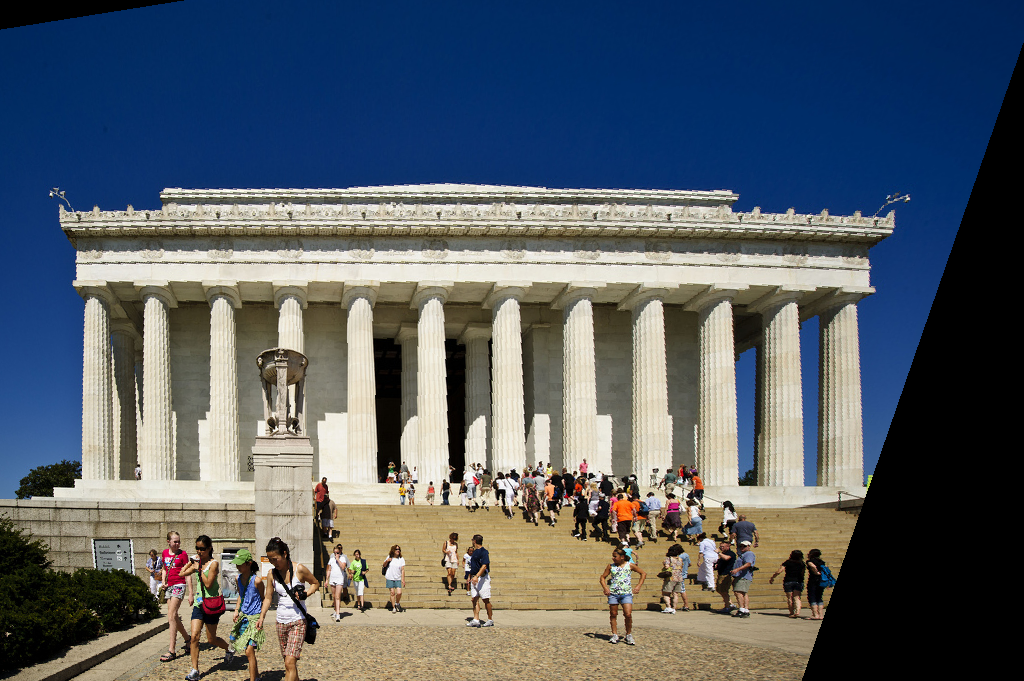
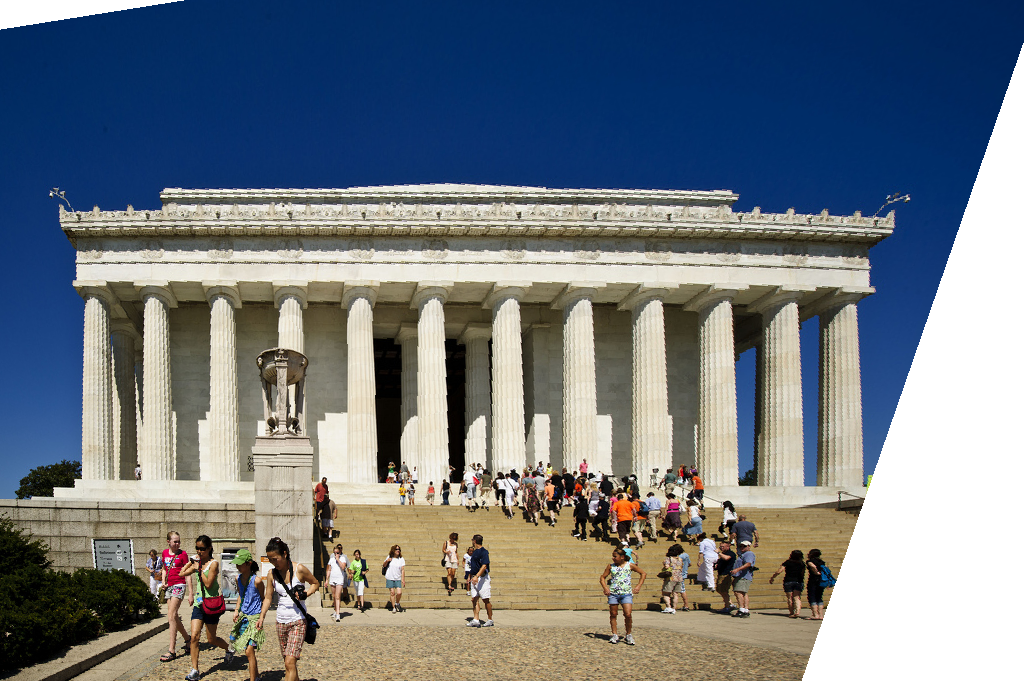
part2-q1: a) made externals white instead of black and b) modified the call so that the output is available in main  and c) refactoring

Changed region(s): [[0.7812, 0.0617, 1.0, 1.0], [0.0, 0.0, 0.1562, 0.0617]]

diff --git a/a2.cpp b/a2.cpp
@@ -1,10 +1,3 @@
-// B657 assignment 2 skeleton code
-//
-// Compile with: "make"
-//
-// See assignment handout for command line and project specifications.
-
-//2#define cimg_use_jpeg
 #include "CImg.h"
 #include <ctime>
 #include <iostream>
@@ -111,74 +104,53 @@ vector<vector<int> > quantize_vectors(const vector<SiftDescriptor> descriptors, 
 	return result;
 }
 
-void inverseWarp(CImg<double> input_image)//,double arr[3][3])
-{
-  double sum=0.0;
-  CImg<double> warped = input_image;
-  warped.fill(0,0,0);
-  double coordinates[3]={0,0,1.0};
-  double out[3] = {0,0,0};
-  //double transformation_inverse[3][3] = {1.12467, -0.314677,222.941,0.108839,0.685059,-19.9247,0.000264587,-0.000597069,1.08278};
-  // double transformation_inverse[3][3] = {1.12467, -0.314677,222.941,0.108839,0.685059,-19.9247,0.0,0.0,1.0};
-  double transformation_inverse[3][3];
-  transformation_inverse[0][0]=1.124668581; transformation_inverse[0][1]=-0.314676504; transformation_inverse[0][2]=222.940924688;
-  transformation_inverse[1][0]=0.108839051; transformation_inverse[1][1]=0.685058665; transformation_inverse[1][2]=-19.924695338;
-  transformation_inverse[2][0]=0.000264587; transformation_inverse[2][1]=-0.00059706; transformation_inverse[2][2]=1.082784875;
+void inverseWarp(CImg<double> input_image, CImg<double> warped) {
+	double sum=0.0;
+	warped.fill(255,255,255);
+	double coordinates[3] = {0,0,1.0};
+	double out[3] = {0,0,0};
   
- //  double m[3][3] = {0.907, 0.258, -182.0, -0.153, 1.44, 58.0, -0.000306, 0.000731, 1.0};
- //  double minv[3][3];
- //  double det = 	m[0][0] * (m[1][1] * m[2][2] - m[2][1] * m[1][2]) -
-	// 			m[0][1] * (m[1][0] * m[2][2] - m[1][2] * m[2][0]) +
-	// 			m[0][2] * (m[1][0] * m[2][1] - m[1][1] * m[2][0]);
+	double transformation[3][3] = {0.907, 0.258, -182.0, -0.153, 1.44, 58.0, -0.000306, 0.000731, 1.0};
+	double t_inv[3][3];
+	double det = 	transformation[0][0] * (transformation[1][1] * transformation[2][2] - transformation[2][1] * transformation[1][2]) -
+					transformation[0][1] * (transformation[1][0] * transformation[2][2] - transformation[1][2] * transformation[2][0]) +
+					transformation[0][2] * (transformation[1][0] * transformation[2][1] - transformation[1][1] * transformation[2][0]);
 
-	// double invdet = 1 / det;
+	double invdet = 1 / det;
 
-	// minv[0][0] = invdet * (m[1][1] * m[2][2] - m[2][1] * m[1][2]);
-	// minv[0][1] = invdet * (m[0][2] * m[2][1] - m[0][1] * m[2][2]);
-	// minv[0][2] = invdet * (m[0][1] * m[1][2] - m[0][2] * m[1][1]);
-	// minv[1][0] = invdet * (m[1][2] * m[2][0] - m[1][0] * m[2][2]);
-	// minv[1][1] = invdet * (m[0][0] * m[2][2] - m[0][2] * m[2][0]);
-	// minv[1][2] = invdet * (m[1][0] * m[0][2] - m[0][0] * m[1][2]);
-	// minv[2][0] = invdet * (m[1][0] * m[2][1] - m[2][0] * m[1][1]);
-	// minv[2][1] = invdet * (m[2][0] * m[0][1] - m[0][0] * m[2][1]);
-	// minv[2][2] = invdet * (m[0][0] * m[1][1] - m[1][0] * m[0][1]);
+	t_inv[0][0] = invdet * (transformation[1][1] * transformation[2][2] - transformation[2][1] * transformation[1][2]);
+	t_inv[0][1] = invdet * (transformation[0][2] * transformation[2][1] - transformation[0][1] * transformation[2][2]);
+	t_inv[0][2] = invdet * (transformation[0][1] * transformation[1][2] - transformation[0][2] * transformation[1][1]);
+	t_inv[1][0] = invdet * (transformation[1][2] * transformation[2][0] - transformation[1][0] * transformation[2][2]);
+	t_inv[1][1] = invdet * (transformation[0][0] * transformation[2][2] - transformation[0][2] * transformation[2][0]);
+	t_inv[1][2] = invdet * (transformation[1][0] * transformation[0][2] - transformation[0][0] * transformation[1][2]);
+	t_inv[2][0] = invdet * (transformation[1][0] * transformation[2][1] - transformation[2][0] * transformation[1][1]);
+	t_inv[2][1] = invdet * (transformation[2][0] * transformation[0][1] - transformation[0][0] * transformation[2][1]);
+	t_inv[2][2] = invdet * (transformation[0][0] * transformation[1][1] - transformation[1][0] * transformation[0][1]);
 
- //  //double transformation_inverse[3][3] = minv;
-  
- //  for(int x=0;x<3;x++){
- //    for(int y=0;y<3;y++)
-	// 	cout << minv[x][y] << " ";
-	// cout << endl;
- //  }
- //  cout << endl << endl;
-  
   
 	for(int x=0;x<input_image.width();x++){
-	    for(int y=0;y<input_image.height();y++)
-	        {
-	          coordinates[0]=x;
-	          coordinates[1]=y;
-	          for(int i=0;i<3;i++)
-	           {
-	              sum=0.0;
-	              for(int k=0;k<3;k++){
-	              	sum=sum+(transformation_inverse[i][k]*coordinates[k]);
-	              }
-	              out[i]=sum;
-	            }
+	    for(int y=0;y<input_image.height();y++) {
+			coordinates[0]=x;
+			coordinates[1]=y;
+			for(int i=0;i<3;i++) {
+				sum=0.0;
+				for(int k=0;k<3;k++){
+					sum += t_inv[i][k]*coordinates[k];
+				}
+				out[i]=sum;
+			}
+			out[1] = out[1]/out[2];
+			out[0] = out[0]/out[2];
 
-	            out[1] = out[1]/out[2];
-	            out[0] = out[0]/out[2];
-				
-	        if(out[0]<input_image.width() && out[0]>=0 && out[1]<input_image.height() && out[1]>=0)
-	          {
-	            warped(x,y,0,0)=input_image(floor(out[0]),floor(out[1]),0,0);
-	            warped(x,y,0,1)=input_image(floor(out[0]),floor(out[1]),0,1);
-	            warped(x,y,0,2)=input_image(floor(out[0]),floor(out[1]),0,2);
-	          }
-	      }
+			if(out[0]<input_image.width() && out[0]>=0 && out[1]<input_image.height() && out[1]>=0) {
+				warped(x,y,0,0)=input_image(floor(out[0]),floor(out[1]),0,0);
+				warped(x,y,0,1)=input_image(floor(out[0]),floor(out[1]),0,1);
+				warped(x,y,0,2)=input_image(floor(out[0]),floor(out[1]),0,2);
+			}
+		}
   	}
-  warped.save("part2-q1.png");
+	warped.save("part2-q1.png");
 }
 
 int main(int argc, char **argv)
@@ -441,7 +413,8 @@ int main(int argc, char **argv)
 			cout << "Part2 - Question 1:" << '\n';
 			string inputFile = argv[3];
 			CImg<double> input_image(inputFile.c_str());
-			inverseWarp(input_image);
+			CImg<double> warped = input_image;
+			inverseWarp(input_image, warped);
 		}
     }
     else
